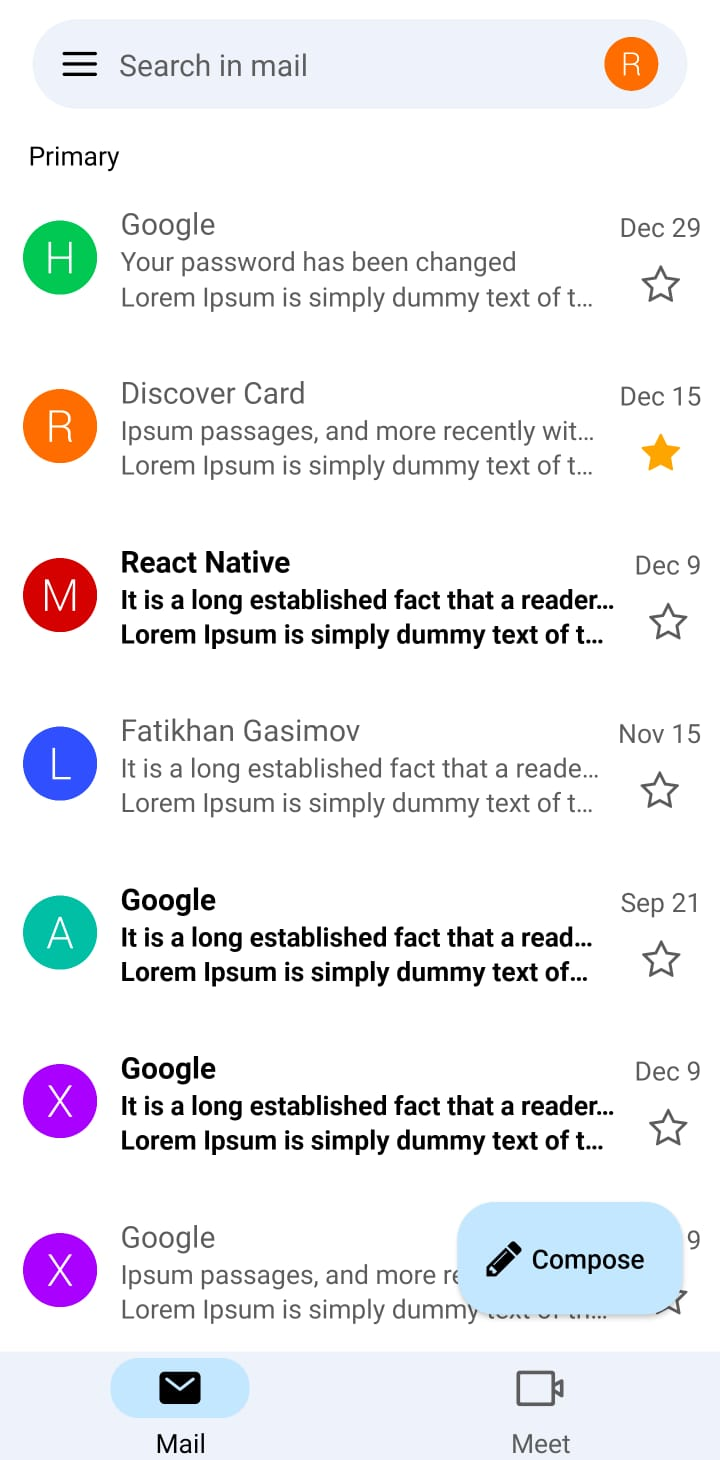
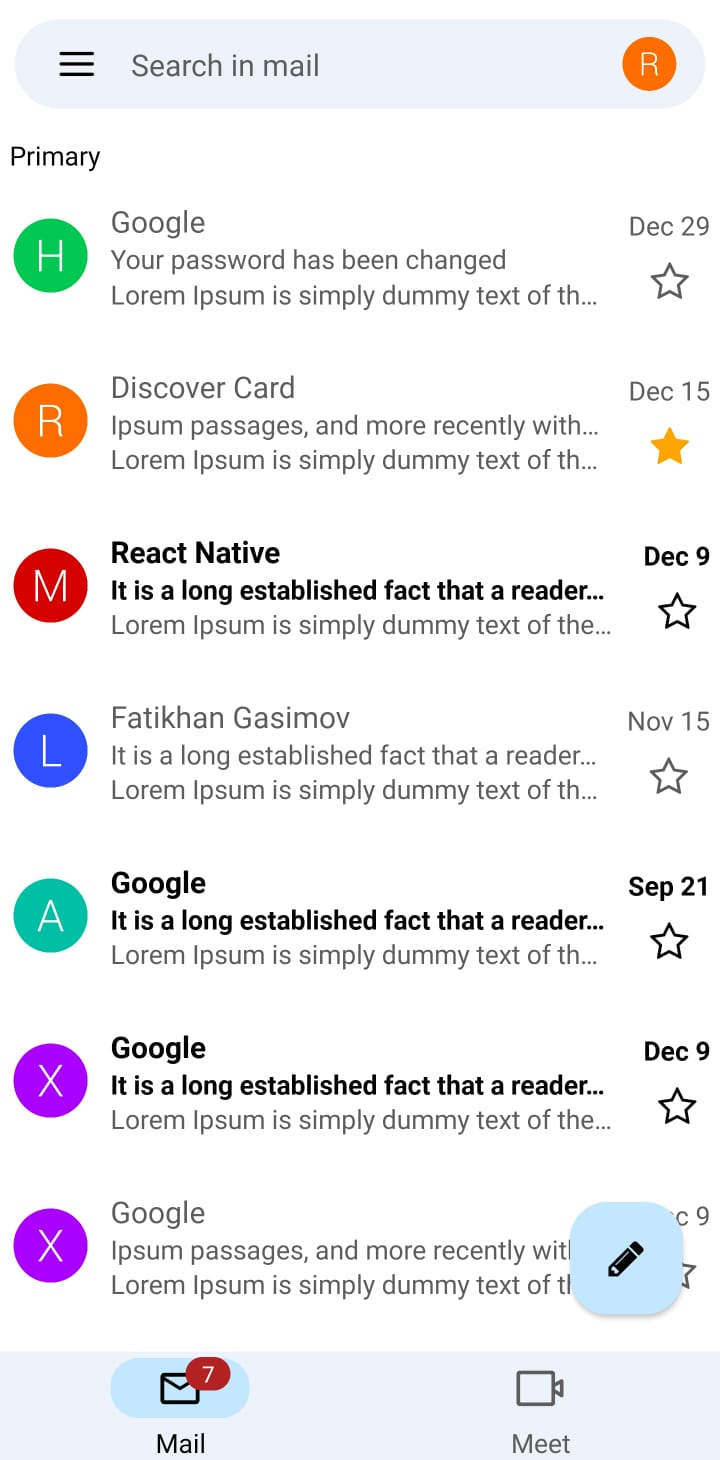
style changes

diff --git a/screens/InboxScreen.js b/screens/InboxScreen.js
@@ -7,6 +7,10 @@ import { emails } from "../assets/emails";
 import ActionButton from "../src/components/inbox/ActionButton";
 import { colors } from "../assets/colors";
 import EmailItem from "../src/components/inbox/EmailItem";
+import { SwipeListView } from "react-native-swipe-list-view";
+import { ScrollView } from "react-native-gesture-handler";
+
+import { Ionicons } from "@expo/vector-icons";
 
 const HomeScreen = ({ navigation }) => {
   const [offset, setOffset] = useState(0);
@@ -23,7 +27,7 @@ const HomeScreen = ({ navigation }) => {
   return (
     <SafeAreaView style={styles.container}>
       <SearchBarContainer navigation={navigation} />
-      <FlatList
+      {/* <FlatList
         showsVerticalScrollIndicator={false}
         data={emails}
         renderItem={({ item }) => <EmailItem item={item} />}
@@ -31,6 +35,30 @@ const HomeScreen = ({ navigation }) => {
         onScroll={(event) => actionButtonVisibilityHandler(event)}
         ListHeaderComponent={() => (
             <Text style={styles.headerTitle}>Primary</Text>
+        )}
+      /> */}
+      <SwipeListView
+        scrollEnabled={true}
+        data={emails}
+        renderItem={({ item }) => <EmailItem item={item} />}
+        onScroll={(event) => actionButtonVisibilityHandler(event)}
+        swipeToClosePercent={100}
+        ListHeaderComponent={() => (
+          <Text style={styles.headerTitle}>Primary</Text>
+        )}
+        renderHiddenItem={(data, rowMap) => (
+          <View style={styles.rowBack}>
+            <Ionicons
+              name="md-archive-outline"
+              size={24}
+              color={colors.black}
+            />
+            <Ionicons
+              name="md-archive-outline"
+              size={24}
+              color={colors.black}
+            />
+          </View>
         )}
       />
       <ActionButton isVisible={actionTextVisible} navigation={navigation} />
@@ -44,9 +72,16 @@ export default HomeScreen;
 const styles = StyleSheet.create({
   container: {
     flex: 1,
-    paddingHorizontal: 10,
     marginTop: 10,
     backgroundColor: colors.white,
   },
-  headerTitle: { marginTop: 10, marginLeft: 5 },
+  headerTitle: { marginTop: 10, marginLeft: 10 },
+  rowBack: {
+    flex: 1,
+    flexDirection: "row",
+    backgroundColor: colors.green,
+    justifyContent: "space-between",
+    alignItems: "center",
+    paddingHorizontal: 20,
+  },
 });

diff --git a/navigation/BottomTabNavigator.js b/navigation/BottomTabNavigator.js
@@ -2,7 +2,7 @@ import { createBottomTabNavigator } from "@react-navigation/bottom-tabs";
 import React from "react";
 import { colors } from "../assets/colors";
 import InboxScreen from "../screens/InboxScreen";
-import { Ionicons, AntDesign } from "@expo/vector-icons";
+import { Ionicons, AntDesign, MaterialIcons } from "@expo/vector-icons";
 import BottomTabContainer from "./BottomTabContainer";
 import MeetScreen from "../screens/MeetScreen";
 
@@ -38,15 +38,15 @@ const BottomTabNavigator = () => {
             backgroundColor: colors.red,
             fontSize: 12,
             height: 18,
-            width: 18
+            width: 24,
           },
           tabBarIcon: ({ color, size, focused }) =>
             focused ? (
               <BottomTabContainer>
-                <Ionicons name="mail" size={size} color={color} />
+                <MaterialIcons name="mail-outline" size={size} color={color} />
               </BottomTabContainer>
             ) : (
-              <Ionicons name="mail" size={size} color={color} />
+              <MaterialIcons name="mail-outline" size={size} color={color} />
             ),
         }}
       />

diff --git a/src/components/inbox/EmailItem.js b/src/components/inbox/EmailItem.js
@@ -64,11 +64,12 @@ export default EmailItem;
 
 const styles = StyleSheet.create({
   emailContainer: {
-    height: 80,
+    height: 88,
     justifyContent: "space-between",
     alignItems: "center",
     flexDirection: "row",
-    marginVertical: 5,
+    backgroundColor: "white",
+    paddingHorizontal: 6,
   },
   avatar: { height: 44, width: 44 },
   emailContent: { flex: 1, marginHorizontal: 10, justifyContent: "center" },

diff --git a/assets/colors.js b/assets/colors.js
@@ -9,4 +9,5 @@ export const colors = {
   orange: "orange",
   touch: "#dbdce0",
   red: "#b22222",
+  green: "green"
 };

diff --git a/README.md b/README.md
@@ -2,6 +2,8 @@
 
 <p>
 <img src="https://github.com/fatikhan-gasimov/gmail-clone/blob/main/assets/inbox-screen.png" width="240"/>
+<img src="https://github.com/fatikhan-gasimov/gmail-clone/blob/main/assets/inbox-screen-2.png" width="240"/>
+<img src="https://github.com/fatikhan-gasimov/gmail-clone/blob/main/assets/inbox-screen-3.png" width="240"/>
 <img src="https://github.com/fatikhan-gasimov/gmail-clone/blob/main/assets/filter-screen.png" width="240"/>
 <img src="https://github.com/fatikhan-gasimov/gmail-clone/blob/main/assets/compose-screen.png" width="240"/>
 </p>
